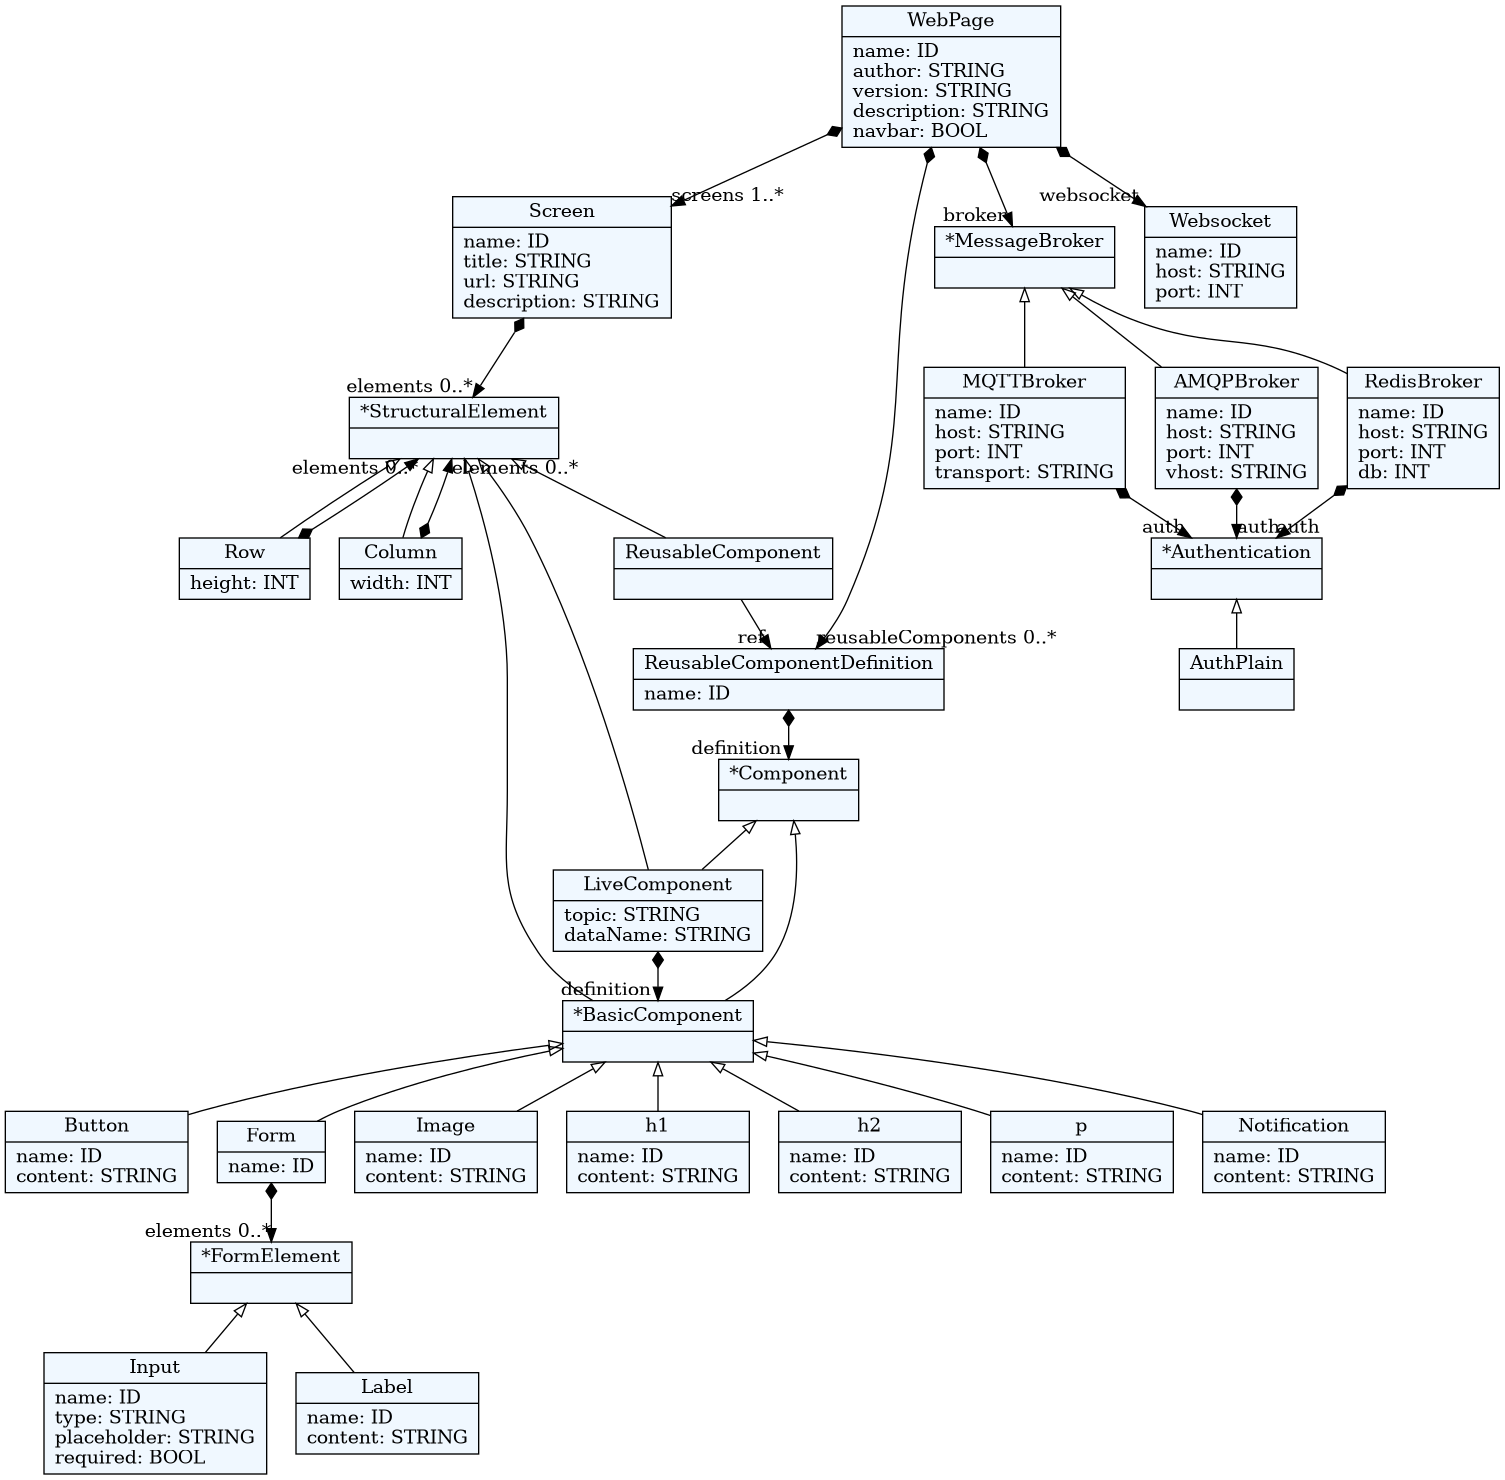
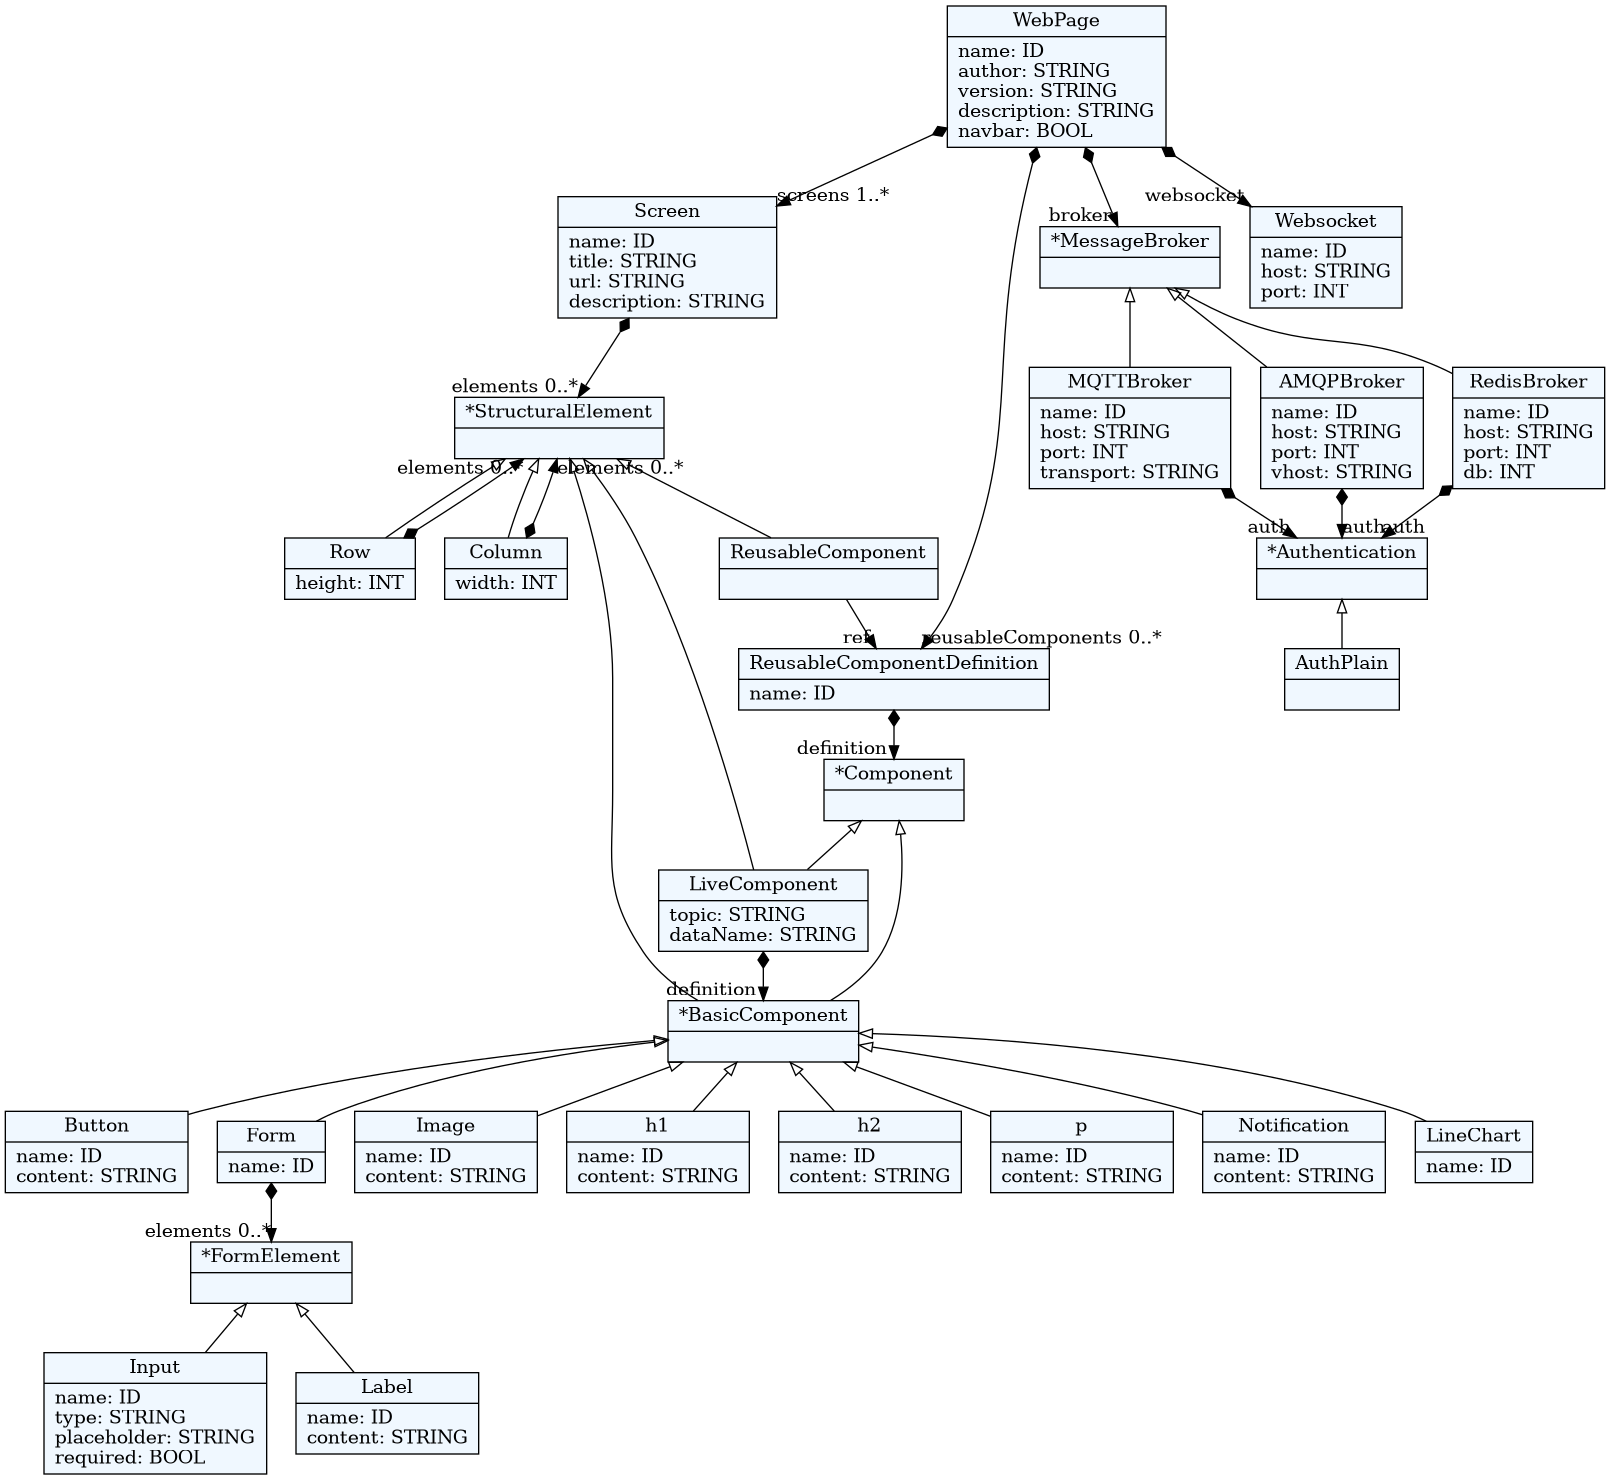
Added live line chart component

diff --git a/web_dsl/generate.py b/web_dsl/generate.py
@@ -8,11 +8,13 @@ frontend_env = Environment(
     loader=FileSystemLoader(f"{os.path.dirname(__file__)}/templates/frontend"),
     trim_blocks=True,
     lstrip_blocks=True,
+    extensions=["jinja2.ext.loopcontrols"],
 )
 backend_env = Environment(
     loader=FileSystemLoader(f"{os.path.dirname(__file__)}/templates/backend"),
     trim_blocks=True,
     lstrip_blocks=True,
+    extensions=["jinja2.ext.loopcontrols"],
 )
 
 frontend_base_dir = os.path.join(os.path.dirname(__file__), "base", "frontend_base")
@@ -25,6 +27,9 @@ websocket_context_config_template = frontend_env.get_template(
     "websocket_context_config.jinja"
 )
 live_component_template = frontend_env.get_template("live_component.jinja")
+custom_line_chart_template = frontend_env.get_template(
+    "components/line_chart_template.jinja"
+)
 
 config_template = backend_env.get_template("config_template.jinja")
 dockerfile_template = backend_env.get_template("dockerfile_template.jinja")
@@ -54,6 +59,15 @@ def generate(model_path, gen_path):
     subprocess.run(
         ["cp", "-r", f"{backend_base_dir}/.", os.path.join(gen_path, "backend")]
     )
+
+    # Gather all live copmonents from the model
+    live_components = set()
+    for screen in model.screens:
+        for element in screen.elements:
+            collect_live_components(element, live_components)
+    live_components = list(live_components)
+    for element in live_components:
+        print(element.definition)
 
     # ========= Generate frontend files============
     # Prepare the output directories
@@ -94,15 +108,22 @@ def generate(model_path, gen_path):
         f.write(websocket_context_config_content)
     print(f"Generated: {websocket_context_config_output_file}")
 
+    # Generate component files
+    components_dir = os.path.join(gen_path, "frontend", "src", "components")
+
+    # CustomLineChart component
+    for component in live_components:
+        if component.definition.__class__.__name__ == "LineChart":
+            custom_line_chart_output_file = os.path.join(
+                components_dir, "CustomLineChart.jsx"
+            )
+            with open(custom_line_chart_output_file, "w", encoding="utf-8") as f:
+                f.write(custom_line_chart_template.render(element=component))
+            print(f"Generated: {custom_line_chart_output_file}")
+
     # ========= Generate backend files============
 
     # Gather all topics from the model
-    live_components = set()
-    for screen in model.screens:
-        for element in screen.elements:
-            collect_live_components(element, live_components)
-    live_components = list(live_components)
-
     all_topics = set()
     for component in live_components:
         all_topics.add(component.topic)

diff --git a/README.md b/README.md
@@ -9,5 +9,17 @@
 ### Steps
 
 1. Clone the repository
-2. Run `docker-compose up`
+2. Run `docker compose up --build`
 3. Access the application at `http://localhost:8082`
+
+## Components
+
+### Notification Component
+
+-   Displays a notification message to the user
+-   Expects a message from the broker `{data: "Message to display"}`
+
+### Line Chart Component
+
+-   Displays a line chart with the data received from the broker
+-   Expects a message from the broker `{data: { x_axis: 1, y_axis: 10 }}`
